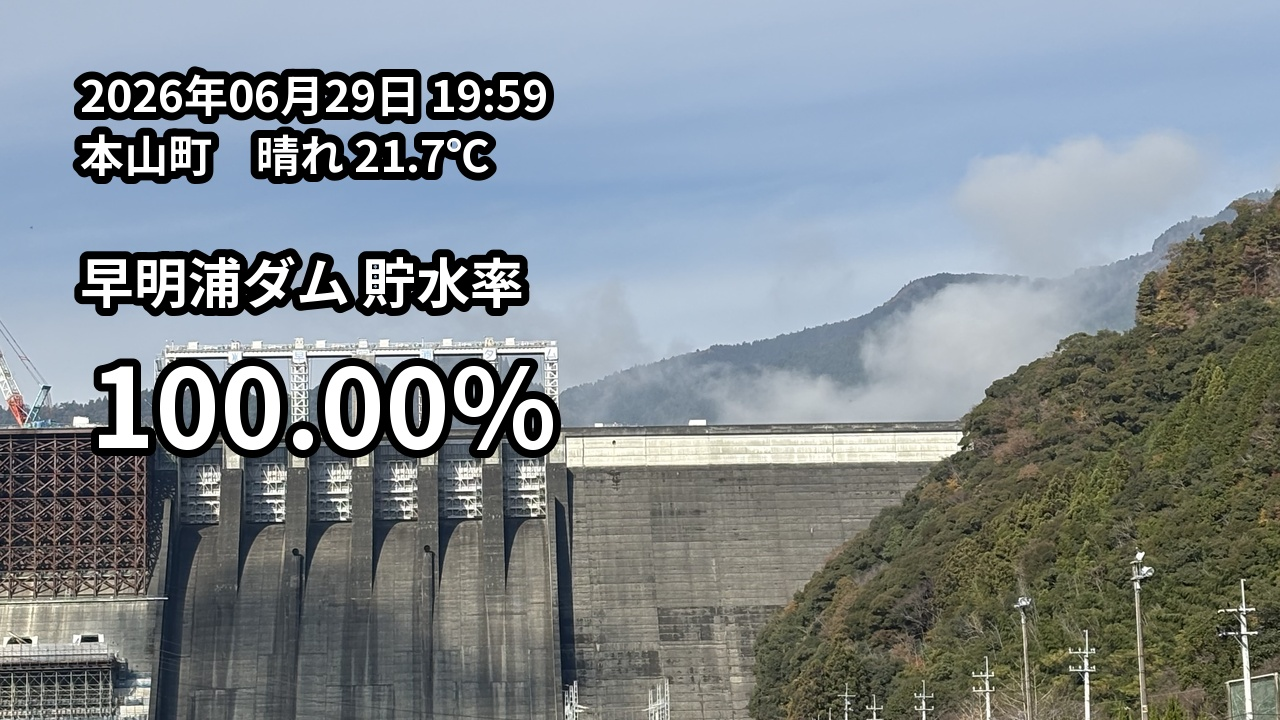
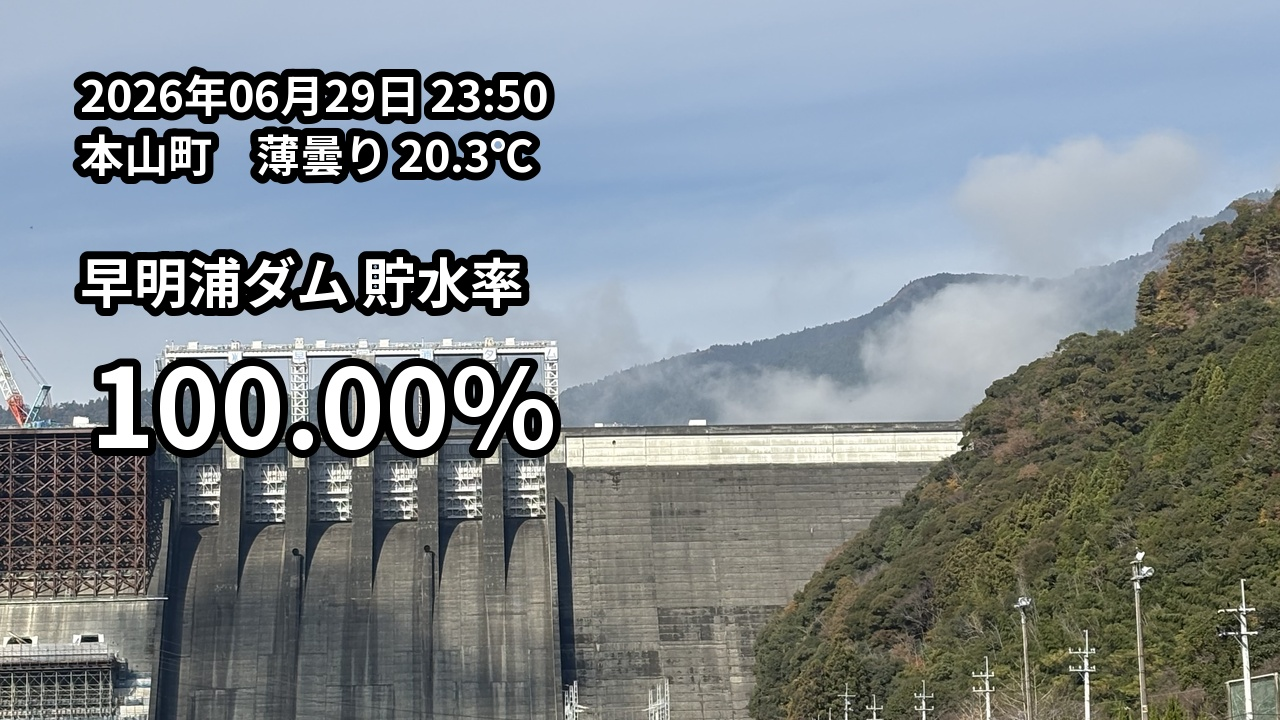
Update daily image

Changed region(s): [[0.1875, 0.1528, 0.4375, 0.275], [0.3125, 0.0917, 0.375, 0.1528], [0.4062, 0.0917, 0.4375, 0.1528]]

diff --git a/index.html b/index.html
@@ -10,6 +10,6 @@
   </style>
 </head>
 <body>
-  <img src="result.jpg?v=202606291959" alt="早明浦ダム 貯水率" />
+  <img src="result.jpg?v=202606292350" alt="早明浦ダム 貯水率" />
 </body>
 </html>
